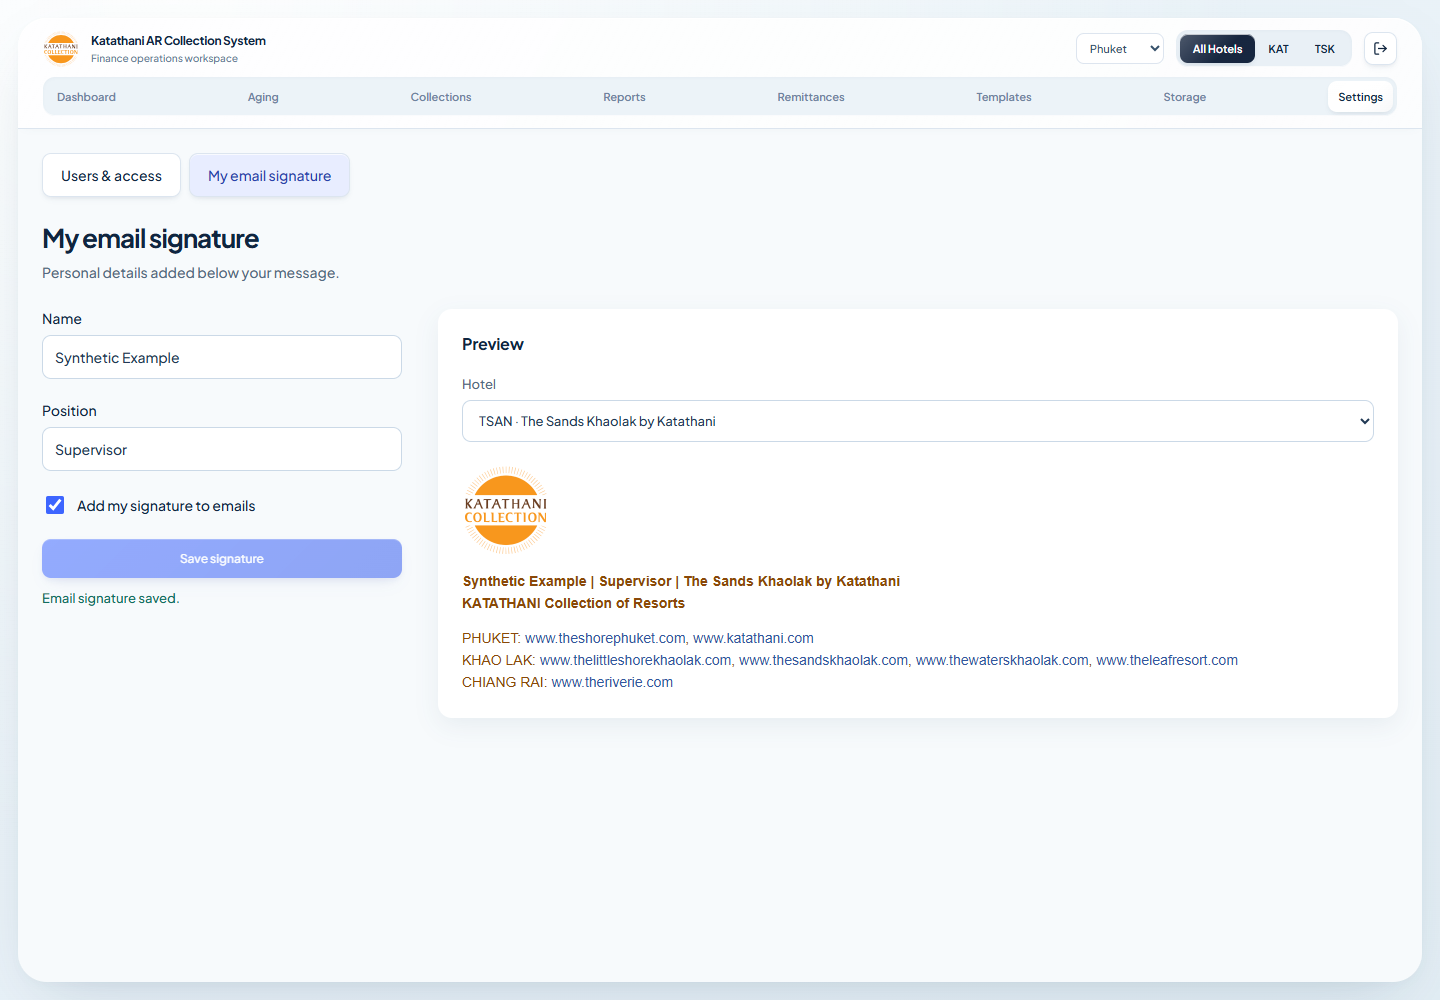
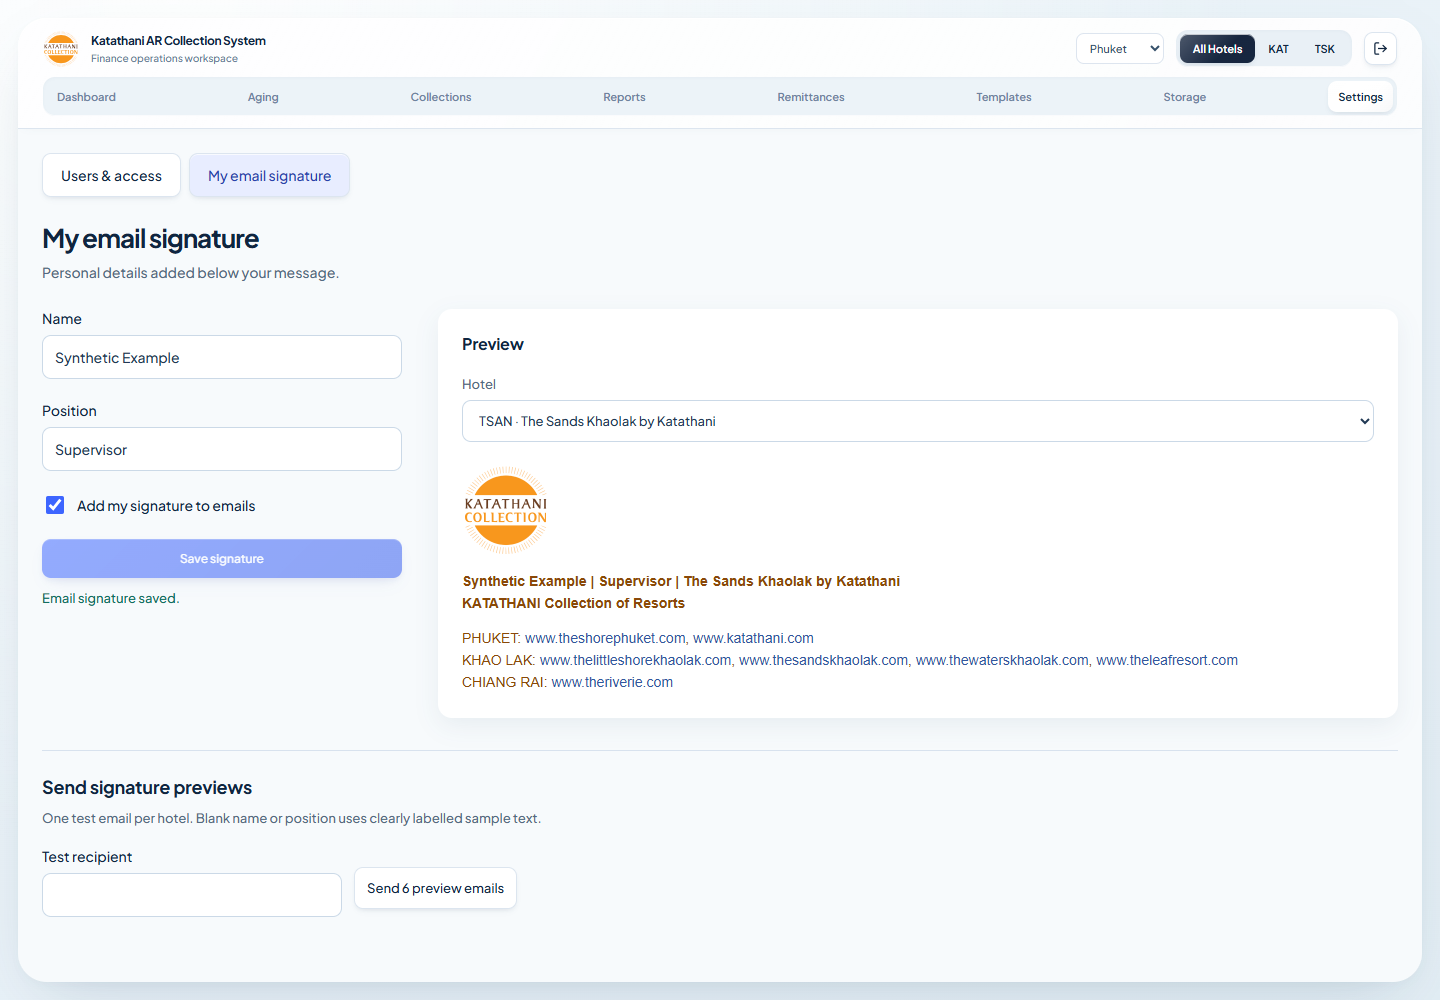
Record verified signature previews and template history cleanup

Changed region(s): [[0.0312, 0.775, 0.375, 0.868], [0.25, 0.868, 0.3438, 0.899]]

diff --git a/docs/PROJECT_STATUS.md b/docs/PROJECT_STATUS.md
@@ -4,7 +4,11 @@
 - Personal email signature: Settings → My email signature, with self-only backend access. Position is linked to the administrator user form. The signature uses the exact document hotel name from the central hotel registry (six existing property names checked against owner-provided RTF references); saved/sent snapshots are not rewritten. Khao Lak sending remains disabled.
 - Logo: the same public vector used on Login, rendered unchanged as PNG for mail-client compatibility and placed before signature text. Outgoing MIME embeds the PNG with a fixed Content-ID; verification checks both logo hash and Content-ID. No external image fetch or recipient tracking. The blurred reference banner is not used.
 - Tested: 1,430 unit tests, TypeScript/build; 12 combined browser cases, including staff-only Settings, all hotel previews, mobile/desktop, no duplicate signature on reopening, latest-template application and existing login/user flows. Final targeted five-case browser rerun passed after layout/selection fixes. SQL replay: 87 migrations / 40 rollback fixtures (`run-3d4a25c722b4498891b407977d1d948e`). No real email sent.
-- Read-only Gmail review and owner images establish requested staff positions. Personal staff data remains outside Git. Production rollout and existing-history removal pending.
+- Enabled/deployed: migration `20260923110000_ar_email_signatures_current_templates`; runtime source `ab0a35bb69700a916f14849fcc922aeaf9a94770`, Worker `38f9b8aa-8f38-4417-8ab4-1559add232ce`, PR #79. Production health/source and six anonymous boundaries passed. Four requested staff positions were set from read-only Gmail/reference evidence without changing names, grants or the protected administrator.
+- Confirmed history cleanup: removed exactly seven legacy template-version rows in a locked transaction; compared full current-head JSON before/after. Live count is six current templates and zero stored versions. Prepared/sent messages were not modified.
+- Owner explicitly authorized six signature previews to a one-time recipient (not stored in Git/configuration). All six hotel diagnostics reached Gmail SENT with matching recipient hash, HTML/plain text, inline logo hash and Content-ID. Database evidence confirms six sent test deliveries and zero billing events. Placeholder staff details were clearly labelled because the administrator has no personal name/position configured.
+- Recovered an in-app native-confirmation stall before any backend delivery was created. Replaced it with inline confirmation and rejected the obsolete confirmation flow server-side; verified zero prior commands before sending. No duplicate signature previews were created.
+- Final validation: 1,432 unit tests; six email preference browser cases (including explicit confirmation, cancelled send and persisted no-resend batch), plus a focused inline-confirmation rerun; earlier login/user regressions stayed green. Current template selection always fetches the latest saved head. Khao Lak customer-email sending remains disabled; the six-hotel operation was synthetic diagnostics only.
 
 ## 23 September 2026 — Dedicated sign-in surface
 

diff --git a/docs/DECISIONS_AND_OPEN_ITEMS.md b/docs/DECISIONS_AND_OPEN_ITEMS.md
@@ -1,3 +1,11 @@
+## ยืนยันล่าสุด — Email Template ปัจจุบันและลายเซ็นรายบุคคล — 23 กันยายน 2026
+
+- Email Templates ใช้ฉบับปัจจุบันเท่านั้น ไม่มี UI เลือก Version และไม่สะสมสำเนาประวัติ Template. คงเลข revision ภายในเพื่อกันบันทึกทับกัน; ไม่เขียนทับเนื้อหา Draft/Sent ที่เตรียมไว้แล้ว.
+- เพิ่ม Position ใน Account Management และเชื่อมกับ My email signature. ชื่อที่ใช้ในลายเซ็นปรับได้โดยไม่เปลี่ยนชื่อผู้ทำรายการในรายงาน.
+- ข้อความหลังตำแหน่งเป็นชื่อโรงแรมของ Document Job โดยตรงจากทะเบียนโรงแรมกลาง ไม่ใช่ข้อความรวม Phuket/Khao Lak. ใช้โลโก้เดียวกับ Login ก่อนข้อความลายเซ็นและฝังเป็น inline image; ไม่ใช้ภาพแบนเนอร์ไม่ชัดจากภาพหน้าจอ.
+- ลายเซ็นต้องเห็นในการเตรียม/Preview และไม่เพิ่มซ้ำเมื่อเปิด Draft. ข้อความ/โลโก้ที่ส่งต้องผ่านการตรวจ SENT เดิม. ไม่เปิด customer-email ของ Khao Lak; เมลตัวอย่างทั้งหกโรงแรมเป็นการทดสอบที่เจ้าของสั่งแยกต่างหาก.
+- เจ้าของยืนยันลบเฉพาะประวัติ Template เดิมเจ็ดแถวแล้ว; คงแม่แบบปัจจุบันหกรายการและข้อมูลอีเมลเดิมทั้งหมด. ปลายทางเมลทดสอบแบบใช้ครั้งเดียวไม่บันทึกในสเปกหรือค่าตั้งถาวร.
+
 # ข้อสรุปล่าสุด ข้อเสนอ และเรื่องที่ต้องยืนยัน
 
 ## ยืนยันล่าสุด — ไม่ต้องติ๊กยืนยันใน Final PDF preview — 21 กันยายน 2026
